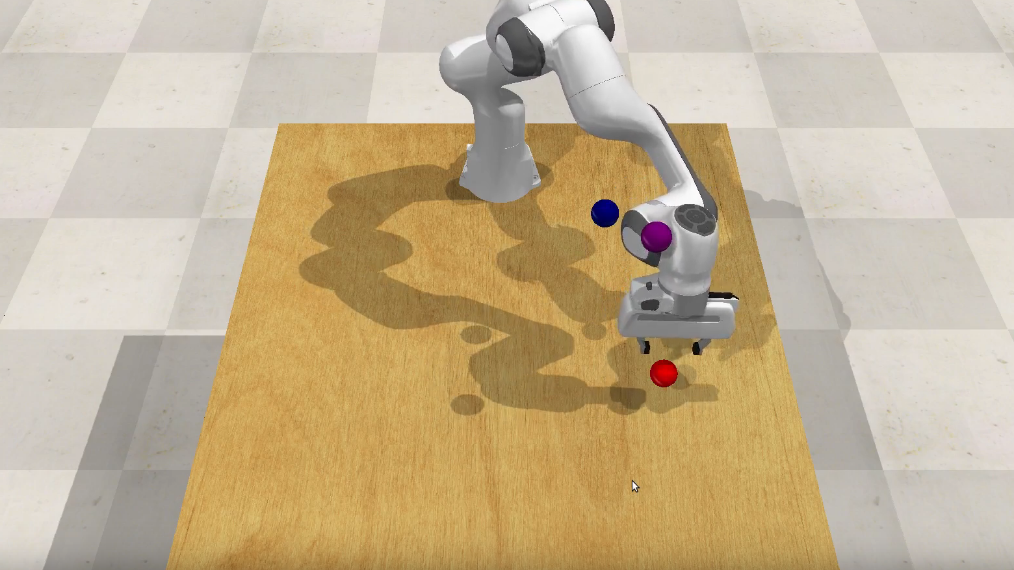
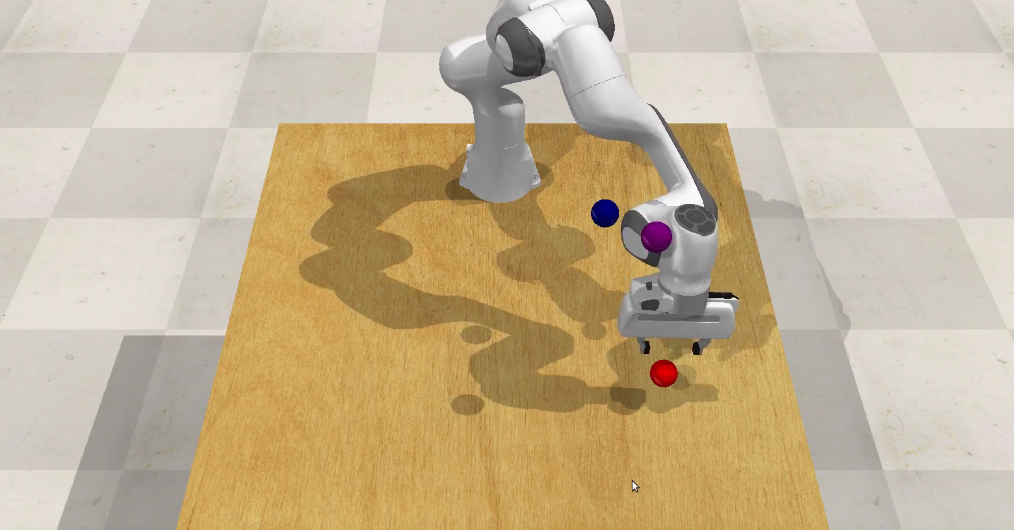
resize images

diff --git a/index.html b/index.html
@@ -78,8 +78,7 @@
     <div class="container text-main my-auto">
       <h1 class="mb-1 offset-md-4">Alvin Shek</h1>
       <h3 class="mb-5">
-        <em>Electrical and Computer Engineering Student
-          <br>Robotics, Computer Vision, Deep and Reinforcement Learning
+        <em>Human Robot Interaction <br> Deep Reinforcement Learning <br> Visual Scene Understanding
         </em>
       </h3>
       <a class="btn btn-primary btn-xl js-scroll-trigger" href="#about">
@@ -100,8 +99,7 @@
 
         <p class="lead text-center col-md-7 col-md-offset-5">
           I study <strong>Robotics</strong> at <strong>Carnegie Mellon
-            University</strong> as
-          a rising masters student. Entering CMU's MSR program, I am excited to
+            University</strong> as a masters student. Entering CMU's MSR program, I am excited to
           develop household and factory robots under Dr. Changliu Liu and the
           Intelligent Control Lab. I envision a future where robot assistants
           can move heavy furniture, finish household chores, or even perform
@@ -179,7 +177,7 @@
                 <p class="mb-0">Dec 2021</p>
               </span>
             </span>
-            <img class="img-fluid" src="projects/cobot_handling/main.png" alt="">
+            <img class="img-fluid" src="projects/cobot_handling/thumbnail.png" alt="">
           </a>
         </div>
 
